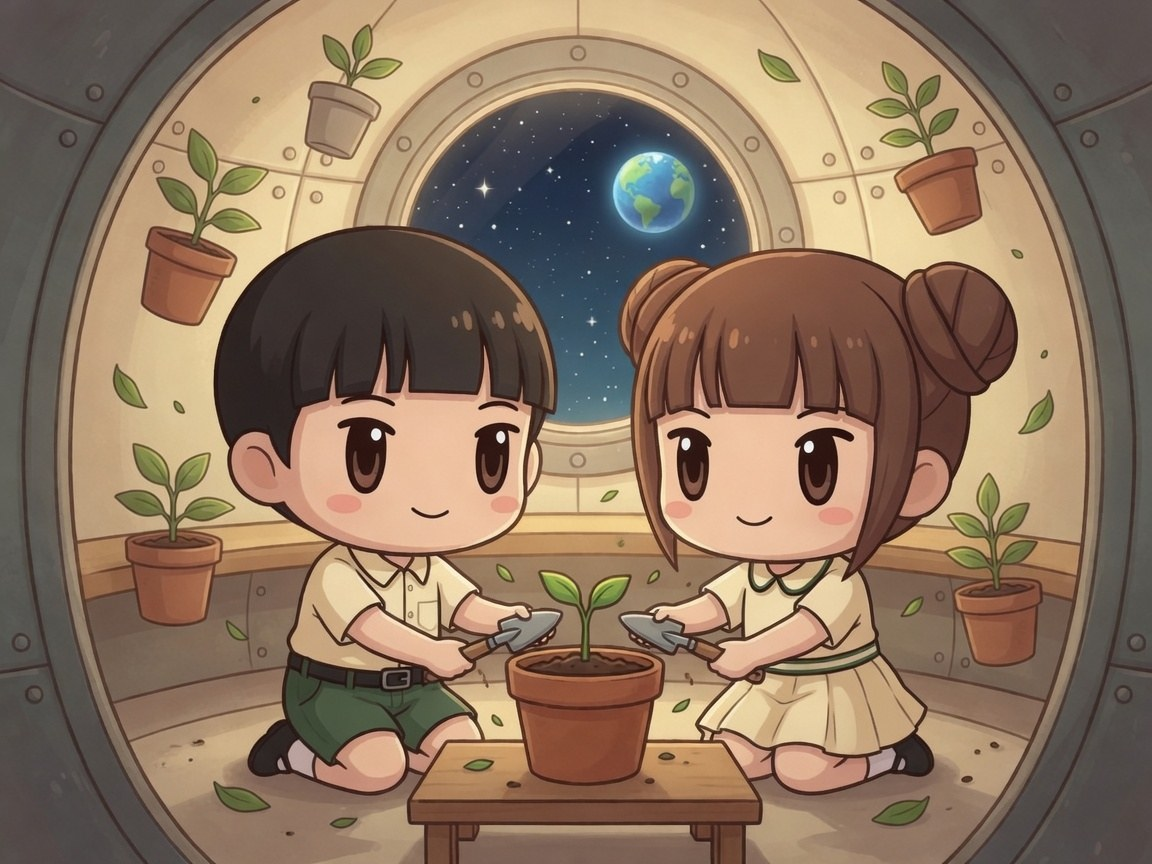
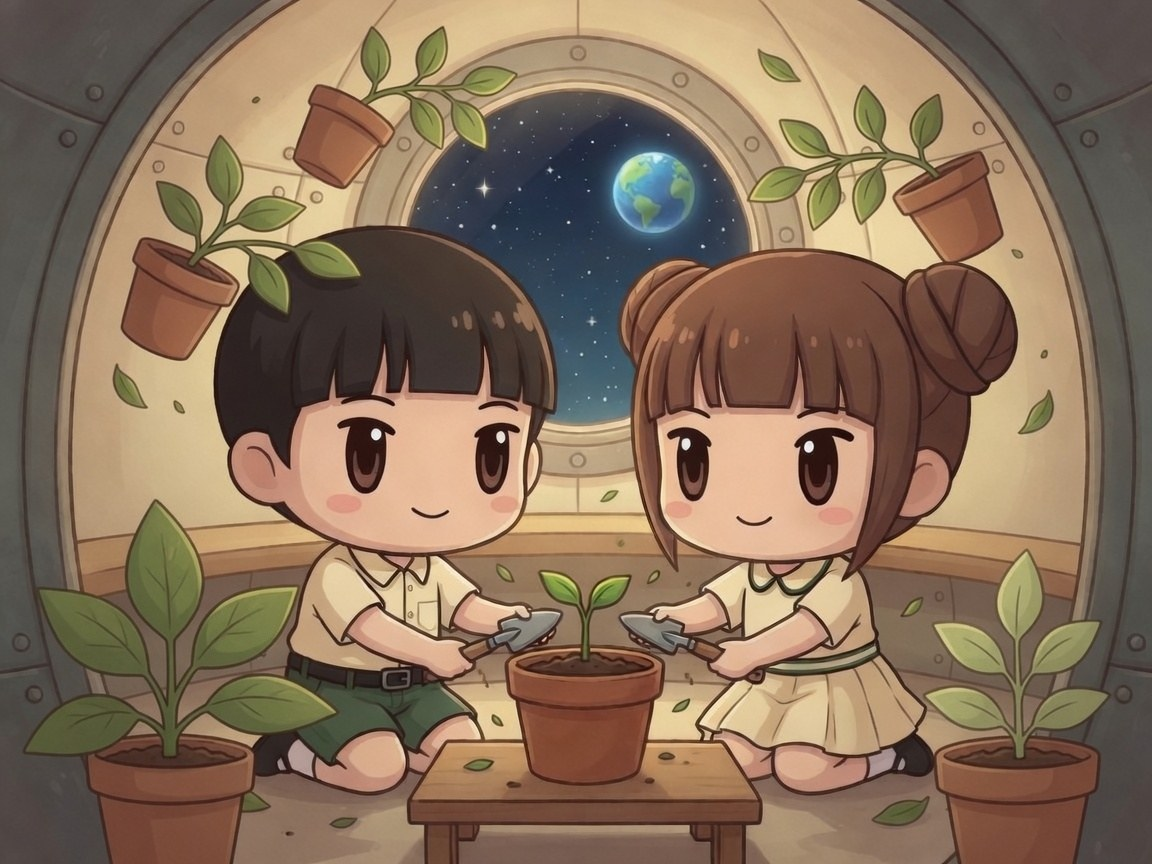
後面五棵植物改為唔同方向生長

diff --git a/spaceplant/index.html b/spaceplant/index.html
@@ -256,7 +256,7 @@
       </label>
       <div class="care">請小心拍攝：只拍攝植物，不要拍到其他人。<br>相片會給老師和同學看見，大家可以互相欣賞彼此的盆栽。</div>
       <div class="plant-pic">
-        <img src="assets/plant.jpg?v=float" alt="小志和小蓮在太空艙裡種植幼苗" draggable="false">
+        <img src="assets/plant.jpg?v=way" alt="小志和小蓮在太空艙裡種植幼苗" draggable="false">
       </div>
       <button class="primary" id="startBtn" type="button" disabled>開始拍照</button>
       <h2>全班相片</h2>
